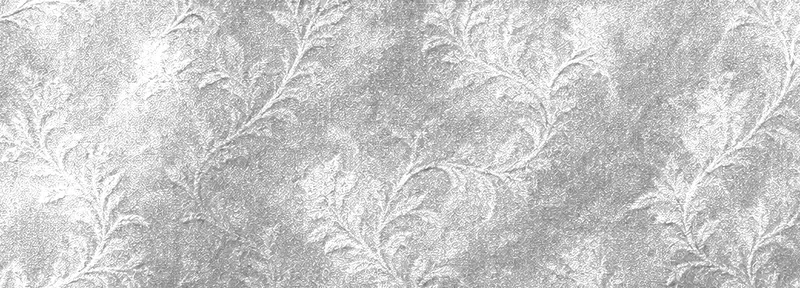
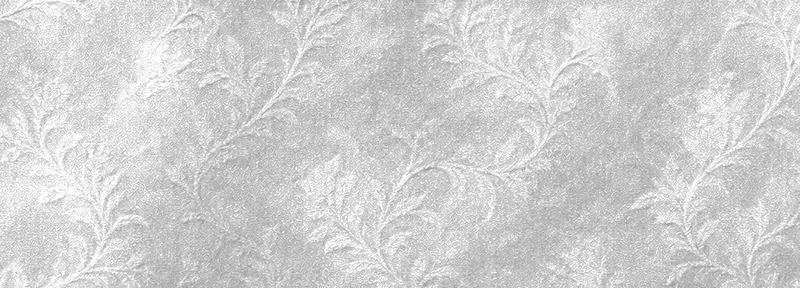
Give the hero element glowing edges like the reference
The arch is now a warm peach disc with a lit gold rim that fades into the
background, panel rims and the card glow gold, a warm haze sits under
the ring, and the velvet damask is softer with slightly shorter panels.

Claude-Session: https://claude.ai/code/session_013AmMkooaCNc19dzhFnrV4U

diff --git a/components/ShapeHero.tsx b/components/ShapeHero.tsx
@@ -23,7 +23,7 @@ const RADIUS = 51;
 const TILT = 15;
 const PERSPECTIVE = 240;
 const RING_Y = 50; // ring centre from the top of the stage
-const PANEL = { w: 20.4, h: 27, rim: 0.55 };
+const PANEL = { w: 20.4, h: 24, rim: 0.55 };
 const START = shapes.findIndex((s) => s.id === "rectangle"); // the shape shown first
 const SPIN_MS = 5200; // one slow, graceful turn
 const TUCK_MS = 450; // the card shrinks back into the ring before it turns
@@ -80,7 +80,7 @@ function ShapeCard({ shape }: { shape: BodyShape }) {
   const index = shapes.indexOf(shape);
   return (
     <div
-      className="relative z-10 mx-auto w-[max(17.5rem,46cqw)] overflow-hidden rounded-[max(1.1rem,3cqw)] border-[max(2px,0.45cqw)] text-[#fbf3e8] shadow-[0_2cqw_5cqw_-1cqw_rgba(70,20,10,0.35)] transition-colors duration-700"
+      className="relative z-10 mx-auto w-[max(17.5rem,46cqw)] overflow-hidden rounded-[max(1.1rem,3cqw)] border-[max(2px,0.45cqw)] text-[#fbf3e8] shadow-[0_0_2.6cqw_0.3cqw_rgba(236,168,82,0.5),0_2cqw_5cqw_-1cqw_rgba(70,20,10,0.35)] transition-colors duration-700"
       style={{ borderColor: GOLD, backgroundColor: shape.tone.to }}
     >
       <span aria-hidden className="pointer-events-none absolute inset-0" style={{ background: `linear-gradient(170deg, transparent 0%, ${shape.tone.from} 85%)` }} />
@@ -220,15 +220,23 @@ export default function ShapeHero() {
           <div className="mx-auto w-full max-w-[38rem] min-w-0 lg:max-w-none">
             <div className="mx-auto [container-type:inline-size] lg:w-[min(100%,calc((100svh-28rem)*1.19))]">
               <div className="relative">
-                {/* Golden arch */}
+                {/* Golden arch: a warm, glowing disc with a gold rim that melts into the background below */}
                 <div
                   aria-hidden
-                  className="absolute top-[0.3cqw] left-1/2 h-[77cqw] w-[77cqw] -translate-x-1/2 rounded-full border-[0.22cqw] bg-[radial-gradient(circle_at_50%_40%,#fffaf2_0%,#fdf2e6_55%,rgba(253,240,233,0)_75%)]"
+                  className="absolute top-[0.3cqw] left-1/2 h-[77cqw] w-[77cqw] -translate-x-1/2 rounded-full border-[0.3cqw]"
                   style={{
-                    borderColor: GOLD,
-                    maskImage: "linear-gradient(to bottom, #000 40%, transparent 62%)",
-                    WebkitMaskImage: "linear-gradient(to bottom, #000 40%, transparent 62%)",
+                    borderColor: "#e8a95b",
+                    background: "radial-gradient(circle at 50% 28%, #fff6ea 0%, #fadfc2 34%, #f2c49b 58%, #eaa97a 80%, #e39a6c 100%)",
+                    boxShadow: "0 0 3cqw 0.6cqw rgba(232, 155, 80, 0.5), inset 0 0 3cqw rgba(255, 240, 220, 0.6)",
+                    maskImage: "linear-gradient(to bottom, #000 42%, rgba(0,0,0,0.6) 52%, transparent 66%)",
+                    WebkitMaskImage: "linear-gradient(to bottom, #000 42%, rgba(0,0,0,0.6) 52%, transparent 66%)",
                   }}
+                />
+                {/* Warm golden haze under the ring, as if it is lit from within */}
+                <div
+                  aria-hidden
+                  className="absolute left-1/2 h-[22cqw] w-[118cqw] -translate-x-1/2 rounded-[50%] blur-[2.5cqw]"
+                  style={{ top: `${RING_Y + 14}cqw`, background: "radial-gradient(ellipse at center, rgba(236,165,90,0.55) 0%, rgba(236,165,90,0.22) 45%, transparent 72%)" }}
                 />
 
                 {/* Figure and ring share one 3D space, so back panels pass behind her and front ones in front */}
@@ -263,7 +271,7 @@ export default function ShapeHero() {
                             transform: `rotateY(${-i * STEP}deg) translateZ(${RADIUS}cqw)`, // warm colours to the left, as in the artwork
                             // Polished gold rim, as on the supplied panel
                             background: "linear-gradient(165deg, #fbe39d 0%, #d9a93f 22%, #f5d27a 48%, #b8862b 74%, #f0cd78 100%)",
-                            boxShadow: "0 1cqw 2.2cqw rgba(110,45,30,0.22)",
+                            boxShadow: "0 0 1.3cqw rgba(236, 168, 82, 0.5), 0 1.2cqw 2.4cqw rgba(110,45,30,0.2)", // golden glow round the rim
                           }}
                         >
                           <div
